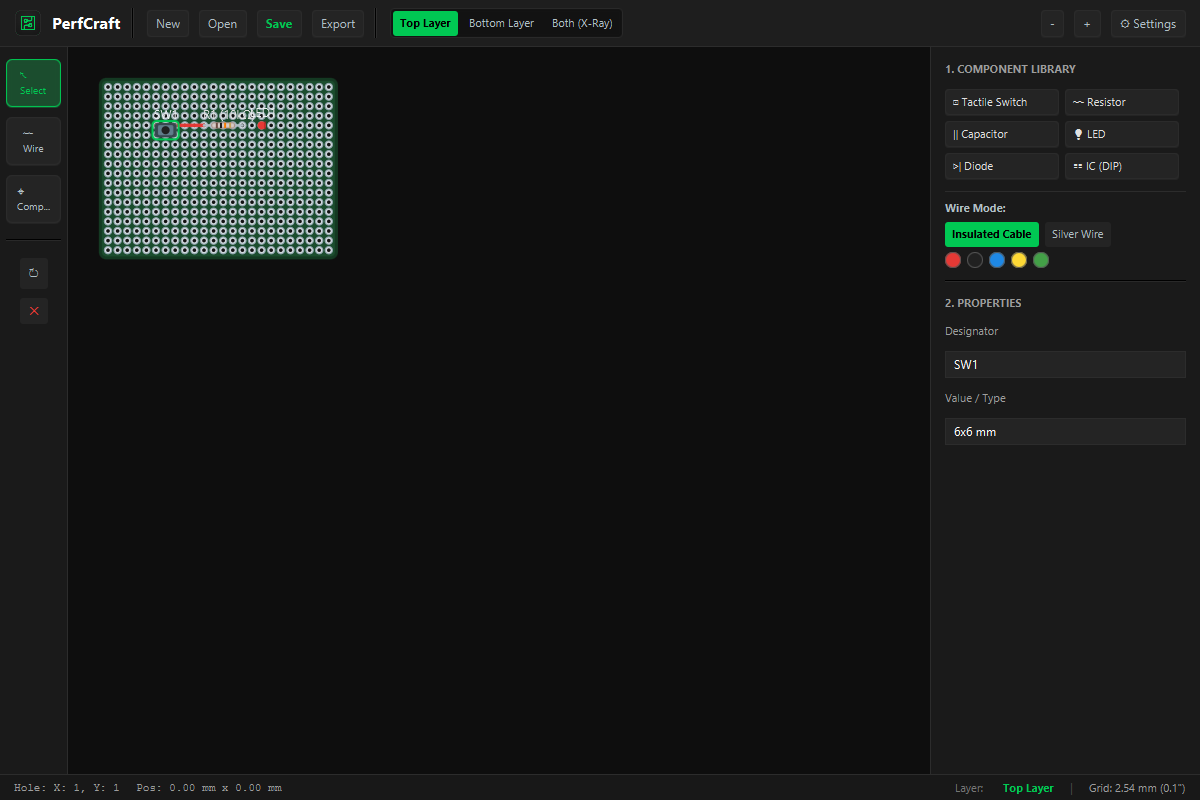
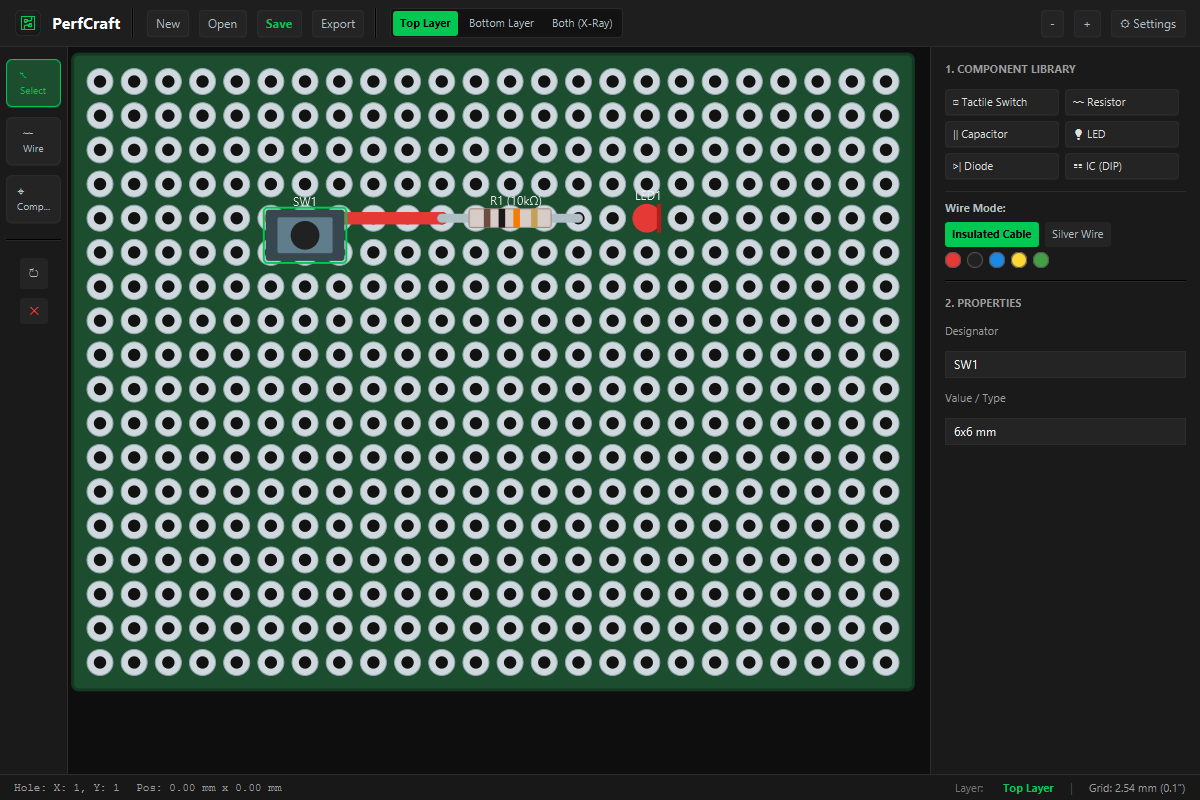
feat(view): enable automatic zoom-to-fit on startup so perfboard fills full canvas

diff --git a/src/main/java/de/exit/perfcraft/ui/canvas/PerfBoardCanvas.java b/src/main/java/de/exit/perfcraft/ui/canvas/PerfBoardCanvas.java
@@ -45,6 +45,8 @@ public class PerfBoardCanvas extends Canvas {
     private Consumer<PlacedComponent> onComponentSelected;
     private Runnable onProjectModified;
 
+    private boolean initialFitDone = false;
+
     public PerfBoardCanvas(double width, double height) {
         super(width, height);
         initInteraction();
@@ -235,6 +237,14 @@ public class PerfBoardCanvas extends Canvas {
     }
 
     public void render() {
+        if (getWidth() <= 10 || getHeight() <= 10) return;
+
+        // Auto zoom-to-fit on initial startup so the perfboard fills the view completely
+        if (!initialFitDone && getWidth() > 50 && getHeight() > 50) {
+            zoomToFit();
+            initialFitDone = true;
+        }
+
         GraphicsContext gc = getGraphicsContext2D();
         gc.setFill(Color.web("#0E0E0E"));
         gc.fillRect(0, 0, getWidth(), getHeight());
@@ -672,13 +682,21 @@ public class PerfBoardCanvas extends Canvas {
         }
     }
 
+    public void zoomToFit() {
+        if (getWidth() > 50 && getHeight() > 50) {
+            transform.resetView(getWidth(), getHeight(), project.getBoard().getColumns(), project.getBoard().getRows());
+        }
+    }
+
     public void setProject(PerfProject project) {
         this.project = project;
         this.selectedComponent = project.getComponents().isEmpty() ? null : project.getComponents().getFirst();
+        zoomToFit();
         render();
     }
 
     public CoordinateTransform getTransform() { return transform; }
+    public boolean isInitialFitDone() { return initialFitDone; }
     public PerfProject getProject() { return project; }
     public PlacedComponent getSelectedComponent() { return selectedComponent; }
 

diff --git a/src/main/java/de/exit/perfcraft/ui/canvas/CoordinateTransform.java b/src/main/java/de/exit/perfcraft/ui/canvas/CoordinateTransform.java
@@ -60,11 +60,13 @@ public class CoordinateTransform {
     }
 
     public void resetView(double canvasWidth, double canvasHeight, int boardCols, int boardRows) {
-        double boardWidthPx = boardCols * PITCH_MM * pixelsPerMm;
-        double boardHeightPx = boardRows * PITCH_MM * pixelsPerMm;
-        double scaleX = (canvasWidth - 80) / boardWidthPx;
-        double scaleY = (canvasHeight - 80) / boardHeightPx;
-        this.scale = Math.clamp(Math.min(scaleX, scaleY), 0.3, 3.0);
+        double boardWidthPx = (boardCols - 1) * PITCH_MM * pixelsPerMm;
+        double boardHeightPx = (boardRows - 1) * PITCH_MM * pixelsPerMm;
+        // Zoom completely to fill canvas while leaving a minimal neat margin (30px)
+        double margin = 32.0;
+        double scaleX = (canvasWidth - margin * 2) / Math.max(1.0, boardWidthPx);
+        double scaleY = (canvasHeight - margin * 2) / Math.max(1.0, boardHeightPx);
+        this.scale = Math.clamp(Math.min(scaleX, scaleY), 0.2, 8.0);
         this.translateX = (canvasWidth - (boardWidthPx * scale)) / 2.0;
         this.translateY = (canvasHeight - (boardHeightPx * scale)) / 2.0;
     }

diff --git a/src/main/java/de/exit/perfcraft/PerfCraftApp.java b/src/main/java/de/exit/perfcraft/PerfCraftApp.java
@@ -77,8 +77,18 @@ public class PerfCraftApp extends Application {
         canvasHolder.setStyle("-fx-background-color: #0E0E0E;");
         canvas.widthProperty().bind(canvasHolder.widthProperty());
         canvas.heightProperty().bind(canvasHolder.heightProperty());
-        canvasHolder.widthProperty().addListener((obs, oldV, newV) -> canvas.render());
-        canvasHolder.heightProperty().addListener((obs, oldV, newV) -> canvas.render());
+        canvasHolder.widthProperty().addListener((obs, oldV, newV) -> {
+            if (!canvas.isInitialFitDone()) {
+                canvas.zoomToFit();
+            }
+            canvas.render();
+        });
+        canvasHolder.heightProperty().addListener((obs, oldV, newV) -> {
+            if (!canvas.isInitialFitDone()) {
+                canvas.zoomToFit();
+            }
+            canvas.render();
+        });
         root.setCenter(canvasHolder);
 
         // 3. LEFT TOOLBAR
